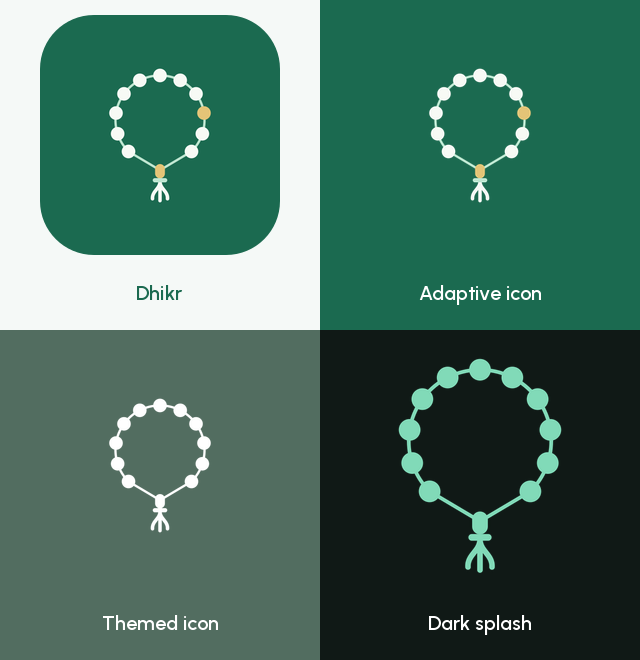
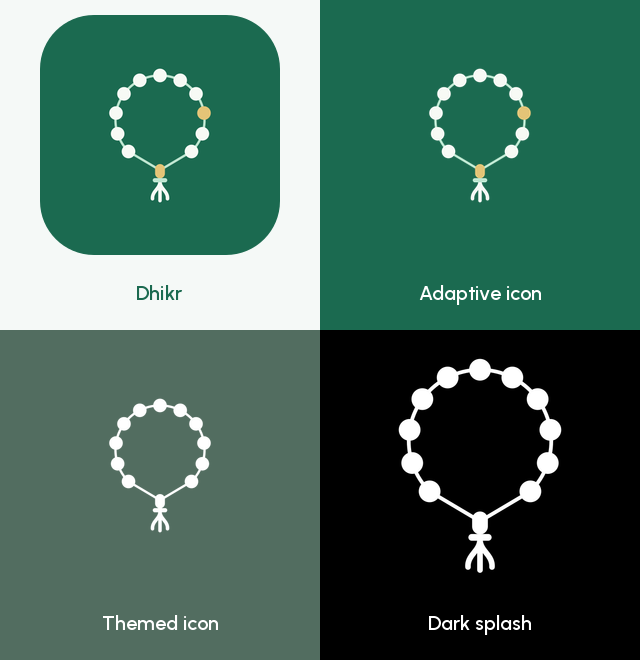
Refine DHiker styling and bump version to 1.0.12

Changed region(s): [[0.5, 0.4848, 1.0, 1.0]]

diff --git a/apps/dhikr/src/constants/theme.ts b/apps/dhikr/src/constants/theme.ts
@@ -3,70 +3,70 @@ export type ThemeName = "light" | "dark";
 /** Shared by NativeWind variables, icons, inputs, and native controls. */
 export const COLORS = {
   light: {
-    surfaceContainer: "hsl(153, 22%, 92%)",
-    surfaceContainerHigh: "hsl(153, 22%, 88%)",
-    primaryContainer: "hsl(154, 48%, 85%)",
-    onPrimaryContainer: "hsl(161, 42%, 13%)",
-    secondaryContainer: "hsl(152, 26%, 85%)",
-    onSecondaryContainer: "hsl(163, 28%, 15%)",
-    outline: "hsl(155, 10%, 42%)",
-    background: "hsl(150, 25%, 97%)",
-    foreground: "hsl(160, 30%, 13%)",
+    surfaceContainer: "hsl(0, 0%, 96%)",
+    surfaceContainerHigh: "hsl(0, 0%, 93%)",
+    primaryContainer: "hsl(0, 0%, 90%)",
+    onPrimaryContainer: "hsl(0, 0%, 0%)",
+    secondaryContainer: "hsl(0, 0%, 91%)",
+    onSecondaryContainer: "hsl(0, 0%, 0%)",
+    outline: "hsl(0, 0%, 42%)",
+    background: "hsl(0, 0%, 100%)",
+    foreground: "hsl(0, 0%, 0%)",
     card: "hsl(0, 0%, 100%)",
-    cardForeground: "hsl(160, 30%, 13%)",
-    secondary: "hsl(150, 24%, 93%)",
-    secondaryForeground: "hsl(160, 30%, 13%)",
-    muted: "hsl(150, 24%, 93%)",
-    mutedForeground: "hsl(160, 18%, 36%)",
-    accent: "hsl(150, 24%, 93%)",
-    accentForeground: "hsl(160, 30%, 13%)",
-    destructive: "hsl(0, 72%, 43%)",
+    cardForeground: "hsl(0, 0%, 0%)",
+    secondary: "hsl(0, 0%, 95%)",
+    secondaryForeground: "hsl(0, 0%, 0%)",
+    muted: "hsl(0, 0%, 95%)",
+    mutedForeground: "hsl(0, 0%, 34%)",
+    accent: "hsl(0, 0%, 95%)",
+    accentForeground: "hsl(0, 0%, 0%)",
+    destructive: "hsl(0, 0%, 23%)",
     destructiveForeground: "hsl(0, 0%, 100%)",
-    success: "hsl(155, 65%, 27%)",
+    success: "hsl(0, 0%, 31%)",
     successForeground: "hsl(0, 0%, 100%)",
-    surface: "hsl(150, 22%, 95%)",
-    border: "hsl(150, 18%, 81%)",
-    input: "hsl(150, 15%, 70%)",
-    chart1: "hsl(12, 76%, 38%)",
-    chart2: "hsl(173, 65%, 29%)",
-    chart3: "hsl(145, 45%, 28%)",
-    chart4: "hsl(43, 80%, 28%)",
-    chart5: "hsl(160, 30%, 33%)",
-    primary: "hsl(160, 60%, 26%)",
+    surface: "hsl(0, 0%, 98%)",
+    border: "hsl(0, 0%, 86%)",
+    input: "hsl(0, 0%, 61%)",
+    chart1: "hsl(0, 0%, 24%)",
+    chart2: "hsl(0, 0%, 29%)",
+    chart3: "hsl(0, 0%, 34%)",
+    chart4: "hsl(0, 0%, 39%)",
+    chart5: "hsl(0, 0%, 43%)",
+    primary: "hsl(0, 0%, 0%)",
     primaryForeground: "hsl(0, 0%, 100%)",
   },
   dark: {
-    surfaceContainer: "hsl(160, 17%, 16%)",
-    surfaceContainerHigh: "hsl(160, 15%, 20%)",
-    primaryContainer: "hsl(161, 33%, 25%)",
-    onPrimaryContainer: "hsl(155, 57%, 89%)",
-    secondaryContainer: "hsl(159, 20%, 28%)",
-    onSecondaryContainer: "hsl(151, 31%, 89%)",
-    outline: "hsl(154, 9%, 63%)",
-    background: "hsl(160, 24%, 8%)",
-    foreground: "hsl(150, 30%, 95%)",
-    card: "hsl(160, 20%, 12%)",
-    cardForeground: "hsl(150, 30%, 95%)",
-    secondary: "hsl(160, 18%, 18%)",
-    secondaryForeground: "hsl(150, 30%, 95%)",
-    muted: "hsl(160, 18%, 18%)",
-    mutedForeground: "hsl(150, 18%, 72%)",
-    accent: "hsl(160, 18%, 18%)",
-    accentForeground: "hsl(150, 30%, 95%)",
-    destructive: "hsl(8, 85%, 74%)",
-    destructiveForeground: "hsl(160, 30%, 10%)",
-    success: "hsl(150, 58%, 66%)",
-    successForeground: "hsl(160, 30%, 10%)",
-    surface: "hsl(160, 18%, 18%)",
-    border: "hsl(160, 16%, 28%)",
-    input: "hsl(160, 16%, 40%)",
-    chart1: "hsl(12, 76%, 72%)",
-    chart2: "hsl(173, 58%, 65%)",
-    chart3: "hsl(160, 45%, 70%)",
-    chart4: "hsl(43, 74%, 70%)",
-    chart5: "hsl(150, 30%, 72%)",
-    primary: "hsl(157, 55%, 68%)",
-    primaryForeground: "hsl(160, 30%, 10%)",
+    surfaceContainer: "hsl(0, 0%, 11%)",
+    surfaceContainerHigh: "hsl(0, 0%, 15%)",
+    primaryContainer: "hsl(0, 0%, 19%)",
+    onPrimaryContainer: "hsl(0, 0%, 100%)",
+    secondaryContainer: "hsl(0, 0%, 17%)",
+    onSecondaryContainer: "hsl(0, 0%, 100%)",
+    outline: "hsl(0, 0%, 63%)",
+    background: "hsl(0, 0%, 0%)",
+    foreground: "hsl(0, 0%, 100%)",
+    card: "hsl(0, 0%, 6%)",
+    cardForeground: "hsl(0, 0%, 100%)",
+    secondary: "hsl(0, 0%, 12%)",
+    secondaryForeground: "hsl(0, 0%, 100%)",
+    muted: "hsl(0, 0%, 12%)",
+    mutedForeground: "hsl(0, 0%, 67%)",
+    accent: "hsl(0, 0%, 12%)",
+    accentForeground: "hsl(0, 0%, 100%)",
+    destructive: "hsl(0, 0%, 75%)",
+    destructiveForeground: "hsl(0, 0%, 0%)",
+    success: "hsl(0, 0%, 81%)",
+    successForeground: "hsl(0, 0%, 0%)",
+    surface: "hsl(0, 0%, 9%)",
+    border: "hsl(0, 0%, 22%)",
+    input: "hsl(0, 0%, 45%)",
+    chart1: "hsl(0, 0%, 86%)",
+    chart2: "hsl(0, 0%, 79%)",
+    chart3: "hsl(0, 0%, 72%)",
+    chart4: "hsl(0, 0%, 65%)",
+    chart5: "hsl(0, 0%, 58%)",
+    primary: "hsl(0, 0%, 100%)",
+    primaryForeground: "hsl(0, 0%, 0%)",
   },
 } as const;
 

diff --git a/apps/dhikr/app/(dhikr)/index.tsx b/apps/dhikr/app/(dhikr)/index.tsx
@@ -269,7 +269,7 @@ export default function CounterScreen() {
   return (
     <View className="relative flex-1 bg-background">
       {showFireworks && (
-        <Fireworks onComplete={stopFireworks} />
+        <Fireworks color={colors.foreground} onComplete={stopFireworks} />
       )}
       <ScrollView
         className="flex-1"
@@ -277,11 +277,11 @@ export default function CounterScreen() {
         showsVerticalScrollIndicator={false}
       >
         <View className="w-full max-w-md flex-1 items-center self-center px-4 pt-2">
-          <View className="w-full flex-row items-center rounded-xl bg-surface-container">
+          <View className="w-full flex-row items-center border-b border-border">
             <Pressable
               onPress={handlePrev}
               disabled={isLoading || resetting}
-              className="h-12 w-12 items-center justify-center rounded-full active:bg-surface-container-high"
+              className="h-12 w-12 items-center justify-center rounded-full active:bg-muted"
               accessible
               accessibilityRole="button"
               accessibilityLabel="Previous"
@@ -299,7 +299,7 @@ export default function CounterScreen() {
             <Pressable
               onPress={handleNext}
               disabled={isLoading || resetting}
-              className="h-12 w-12 items-center justify-center rounded-full active:bg-surface-container-high"
+              className="h-12 w-12 items-center justify-center rounded-full active:bg-muted"
               accessible
               accessibilityRole="button"
               accessibilityLabel="Next"
@@ -325,11 +325,9 @@ export default function CounterScreen() {
               testID="dhikr-total-count"
               numberOfLines={1}
               adjustsFontSizeToFit
-              minimumFontScale={0.3}
-              className={`w-full text-center font-extralight ${
-                limitReached ? "text-success" : "text-foreground"
-              }`}
-              style={{ fontSize: Math.min(80, width * 0.22), letterSpacing: -1 }}
+              minimumFontScale={0.18}
+              className="w-full text-center font-medium text-foreground"
+              style={{ fontSize: Math.min(132, width * 0.34), fontVariant: ["tabular-nums"], letterSpacing: -1 }}
             >
               {activeDhikr.total_count.toLocaleString("en")}
             </Text>
@@ -345,13 +343,13 @@ export default function CounterScreen() {
               }}
               disabled={isLoading || resetting}
               accessibilityState={{ disabled: isLoading || resetting, busy: resetting }}
-              className="min-h-[48px] flex-row items-center gap-2 rounded-full bg-secondary-container px-4 py-2.5 active:opacity-70"
+              className="min-h-[48px] flex-row items-center gap-2 rounded-full px-4 py-2.5 active:bg-muted"
               accessible
               accessibilityRole="button"
               accessibilityLabel="Reset"
             >
-              <RotateCcw size={18} color={colors.onSecondaryContainer} />
-              <Text className="text-label-large font-medium text-on-secondary-container">Reset counts</Text>
+              <RotateCcw size={18} color={colors.mutedForeground} />
+              <Text className="text-label-large font-medium text-muted-foreground">Reset counts</Text>
             </Pressable>
           </View>
         </View>

diff --git a/apps/dhikr/app/(dhikr)/settings.tsx b/apps/dhikr/app/(dhikr)/settings.tsx
@@ -124,20 +124,18 @@ export default function SettingsScreen() {
           {!section && <>
             <View className="gap-2">
               <Text accessibilityRole="header" className="px-1 text-sm font-semibold text-foreground">Appearance</Text>
-              <View className="rounded-xl border border-border/60 bg-card p-3">
-                <View className="flex-row rounded-full border border-outline" accessibilityRole="radiogroup" accessibilityLabel="Appearance">
-                  {(["light", "dark"] as const).map(value => (
-                    <Pressable key={value} onPress={() => setTheme(value)}
-                      className={`min-h-[48px] min-w-0 flex-1 items-center justify-center px-2 py-1 ${value === "light" ? "rounded-l-full border-r border-outline" : "rounded-r-full"} ${theme === value ? "bg-secondary-container" : ""}`}
-                      android_ripple={{ color: withAlpha(colors.primary, 0.125) }}
-                      accessible accessibilityRole="radio" accessibilityState={{ checked: theme === value }}
-                      accessibilityLabel={value === "light" ? "Light" : "Dark"}>
-                      <Text className={`text-label-large font-medium ${theme === value ? "text-on-secondary-container" : "text-muted-foreground"}`}>
-                        {value === "light" ? "Light" : "Dark"}
-                      </Text>
-                    </Pressable>
-                  ))}
-                </View>
+              <View className="flex-row overflow-hidden rounded-[24px] border border-outline" accessibilityRole="radiogroup" accessibilityLabel="Appearance">
+                {(["light", "dark"] as const).map(value => (
+                  <Pressable key={value} onPress={() => setTheme(value)}
+                    className={`min-h-[48px] min-w-0 flex-1 items-center justify-center px-2 py-1 ${theme === value ? "bg-secondary-container" : ""}`}
+                    android_ripple={{ color: withAlpha(colors.primary, 0.125) }}
+                    accessible accessibilityRole="radio" accessibilityState={{ checked: theme === value }}
+                    accessibilityLabel={value === "light" ? "Light" : "Dark"}>
+                    <Text className={`text-label-large ${theme === value ? "font-semibold text-on-secondary-container" : "font-medium text-muted-foreground"}`}>
+                      {value === "light" ? "Light" : "Dark"}
+                    </Text>
+                  </Pressable>
+                ))}
               </View>
             </View>
             <View className="min-h-[52px] flex-row items-center justify-between gap-2 rounded-xl border border-border/60 bg-card px-3 py-2">
@@ -145,7 +143,7 @@ export default function SettingsScreen() {
               <Switch value={haptics} disabled={busy} accessibilityLabel="Vibration feedback"
                 accessibilityState={{ disabled: busy }}
                 trackColor={{ false: colors.muted, true: colors.primary }}
-                thumbColor={theme === "dark" ? colors.foreground : colors.card}
+                thumbColor={haptics ? colors.primaryForeground : colors.outline}
                 onValueChange={value => {
                   if (busyRef.current) return;
                   busyRef.current = true;

diff --git a/apps/dhikr/src/components/NavigationBar.tsx b/apps/dhikr/src/components/NavigationBar.tsx
@@ -1,5 +1,5 @@
 import type { ComponentType } from "react";
-import { Pressable, View } from "react-native";
+import { Pressable, StyleSheet, View } from "react-native";
 import { useKeyboardState } from "react-native-keyboard-controller";
 import { useSafeAreaInsets } from "react-native-safe-area-context";
 import type { AppIconProps } from "./AppIcons";
@@ -28,10 +28,16 @@ export function NavigationBar({ tabs, activeTabId, onTabPress }: NavigationBarPr
 
   return (
     <View
-      className="bg-surface-container"
-      style={{ paddingBottom: insets.bottom, paddingLeft: insets.left, paddingRight: insets.right }}
+      style={{
+        backgroundColor: colors.background,
+        borderTopColor: colors.border,
+        borderTopWidth: StyleSheet.hairlineWidth,
+        paddingBottom: insets.bottom,
+        paddingLeft: insets.left,
+        paddingRight: insets.right,
+      }}
     >
-      <View accessibilityRole="tablist" className="min-h-[64px] w-full max-w-md flex-row self-center px-2">
+      <View accessibilityRole="tablist" className="min-h-[56px] w-full max-w-md flex-row self-center px-2">
         {tabs.map(({ id, label, icon: Icon }) => {
           const selected = id === activeTabId;
           return (
@@ -43,10 +49,15 @@ export function NavigationBar({ tabs, activeTabId, onTabPress }: NavigationBarPr
               onPress={() => onTabPress(id)}
               className="min-w-0 flex-1 items-center justify-center gap-0.5 px-0.5 py-1.5 active:opacity-70"
             >
-              <View className={cn("h-7 w-14 max-w-full items-center justify-center rounded-full", selected && "bg-secondary-container")}>
-                <Icon size={22} color={selected ? colors.onSecondaryContainer : colors.mutedForeground} />
+              <View
+                style={[
+                  styles.tabIndicator,
+                  selected && { backgroundColor: colors.primary },
+                ]}
+              >
+                <Icon size={20} color={selected ? colors.primaryForeground : colors.mutedForeground} />
               </View>
-              <Text className={cn("text-center text-label-medium font-medium", selected ? "text-foreground" : "text-muted-foreground")}>
+              <Text className={cn("text-center text-label-medium", selected ? "font-semibold text-foreground" : "font-medium text-muted-foreground")}>
                 {label}
               </Text>
             </Pressable>
@@ -56,3 +67,14 @@ export function NavigationBar({ tabs, activeTabId, onTabPress }: NavigationBarPr
     </View>
   );
 }
+
+const styles = StyleSheet.create({
+  tabIndicator: {
+    width: 48,
+    maxWidth: "100%",
+    height: 26,
+    borderRadius: 13,
+    alignItems: "center",
+    justifyContent: "center",
+  },
+});

diff --git a/apps/dhikr/src/components/Fireworks.tsx b/apps/dhikr/src/components/Fireworks.tsx
@@ -10,22 +10,11 @@ import Animated, {
   type SharedValue,
 } from "react-native-reanimated";
 
-const PALETTE = [
-  "#e4c477",
-  "#81dab8",
-  "#bfe6d1",
-  "#4ba581",
-  "#f7faf5",
-  "#f2db9e",
-  "#65b697",
-];
-
 interface Particle {
   id: number;
   dx: number;
   dy: number;
   size: number;
-  color: string;
 }
 
 function buildParticles(): Particle[] {
@@ -44,14 +33,17 @@ function buildParticles(): Particle[] {
         dx: Math.cos(angle) * distance,
         dy: Math.sin(angle) * distance,
         size: 6 + Math.random() * 5,
-        color: PALETTE[(id + b) % PALETTE.length],
       });
     }
   }
   return particles;
 }
 
-const Rocket = memo(function Rocket({ particle, progress }: { particle: Particle; progress: SharedValue<number> }) {
+const Rocket = memo(function Rocket({ particle, progress, color }: {
+  particle: Particle;
+  progress: SharedValue<number>;
+  color: string;
+}) {
   const style = useAnimatedStyle(() => {
     return {
       transform: [
@@ -71,7 +63,7 @@ const Rocket = memo(function Rocket({ particle, progress }: { particle: Particle
           width: particle.size,
           height: particle.size,
           borderRadius: particle.size / 2,
-          backgroundColor: particle.color,
+          backgroundColor: color,
         },
         style,
       ]}
@@ -80,8 +72,10 @@ const Rocket = memo(function Rocket({ particle, progress }: { particle: Particle
 });
 
 export default function Fireworks({
+  color,
   onComplete,
 }: {
+  color: string;
   onComplete: () => void;
 }) {
   const [particles] = useState(() => buildParticles());
@@ -121,7 +115,7 @@ export default function Fireworks({
     >
       <View style={styles.center}>
         {particles.map((p) => (
-          <Rocket key={p.id} particle={p} progress={progress} />
+          <Rocket key={p.id} particle={p} progress={progress} color={color} />
         ))}
       </View>
     </View>

diff --git a/apps/dhikr/src/components/ui/Typography.tsx b/apps/dhikr/src/components/ui/Typography.tsx
@@ -1,6 +1,7 @@
 import { forwardRef } from "react";
-import { Text as NativeText, TextInput as NativeTextInput, type TextProps, type TextInputProps, type TextInstance, type TextInputInstance } from "react-native";
-import { cn } from "../../lib/utils";
+import { Platform, Text as NativeText, TextInput as NativeTextInput, type TextProps, type TextInputProps, type TextInstance, type TextInputInstance } from "react-native";
+import { useThemeColors } from "../../lib/theme";
+import { cn, withAlpha } from "../../lib/utils";
 
 // NativeWind drops universal CSS selectors on native platforms. Apply the
 // regular family directly to each text surface; weight classes can override it.
@@ -9,5 +10,15 @@ export const Text = forwardRef<TextInstance, TextProps>(function Text({ classNam
 });
 
 export const TextInput = forwardRef<TextInputInstance, TextInputProps>(function TextInput({ className, ...props }, ref) {
-  return <NativeTextInput {...props} ref={ref} className={cn("font-sans", className)} />;
+  const colors = useThemeColors();
+  return (
+    <NativeTextInput
+      cursorColor={colors.primary}
+      selectionColor={Platform.OS === "ios" ? colors.primary : withAlpha(colors.primary, 0.24)}
+      selectionHandleColor={colors.primary}
+      {...props}
+      ref={ref}
+      className={cn("font-sans", className)}
+    />
+  );
 });
